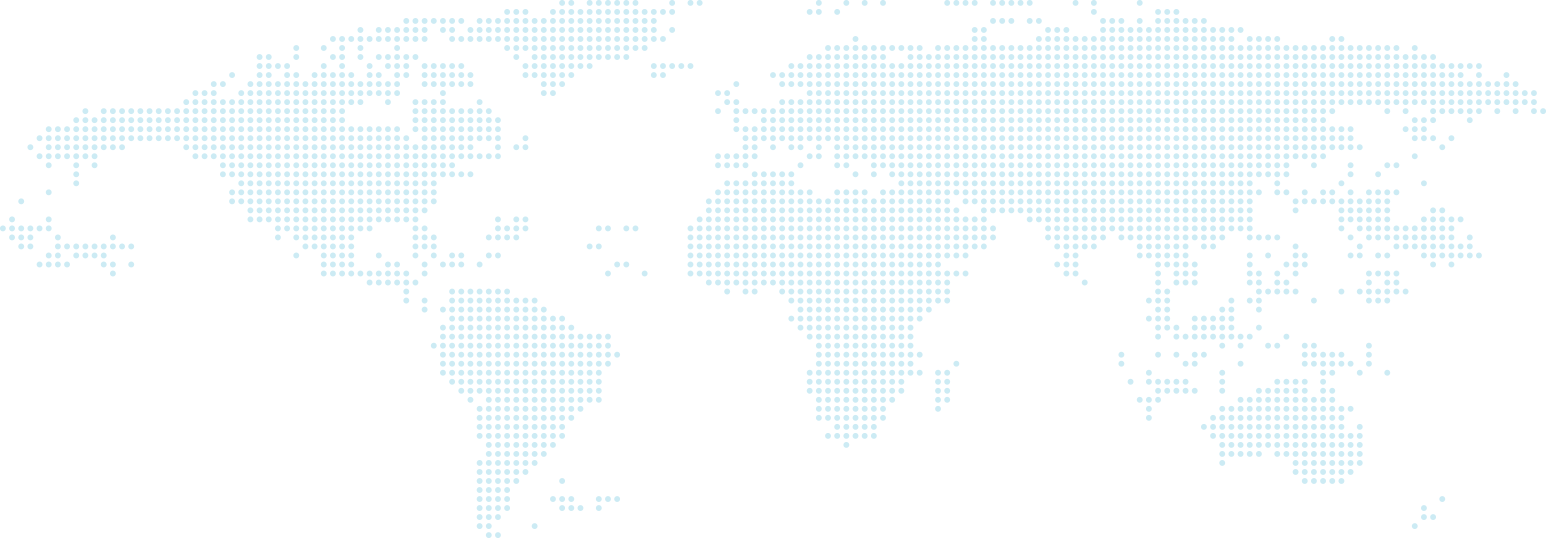
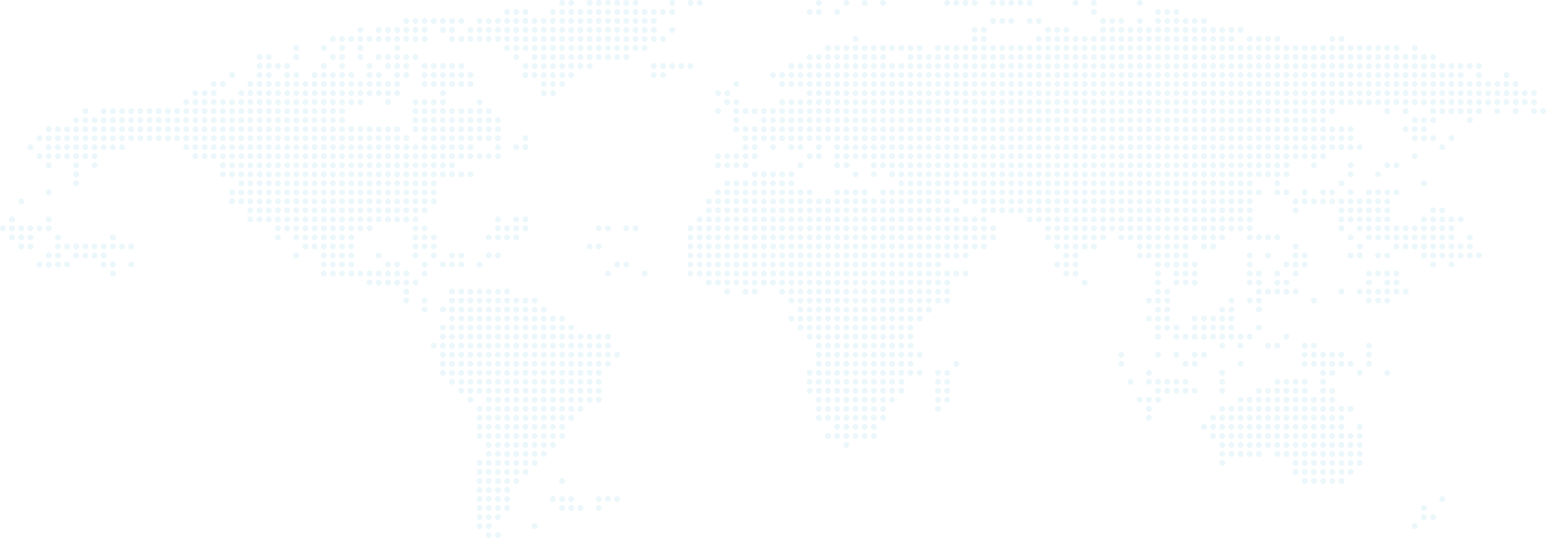
counter de home listo

diff --git a/saaspik/index.html b/saaspik/index.html
@@ -522,14 +522,14 @@
 		<!--=         Count Up        =-->
 		<!--===========================-->
 		<section class="countup">
-			<div class="bg-map" data-bg-image="media/background/map2.png">
+			<div class="bg-map" data-bg-image="media/background/map.png">
 
 			</div>
 			<div class="container">
 				<div class="section-title text-center">
 					<h3 class="sub-title wow pixFadeUp">Fun Facts</h3>
 					<h2 class="title wow pixFadeUp" data-wow-delay="0.2s">
-						We Always try to Understand<br> Users expectation
+						Durante este año 2019
 					</h2>
 				</div>
 				<!-- /.section-title -->
@@ -539,12 +539,13 @@
 						<div class="col-lg-3 col-md-6 col-sm-6">
 							<div class="fun-fact wow pixFadeUp" data-wow-delay="0.3s">
 								<div class="counter">
-									<h4 class="count" data-counter="14">14 </h4>
-									<span>K+</span>
+									<h4 class="count">1.2 </h4>
+									<!-- data-counter="1.2" -->
+									<span>MM+</span>
 								</div>
 								<!-- /.counter -->
 
-								<p>Total Download</p>
+								<p>Liquidaciones generadas</p>
 							</div>
 							<!-- /.fun-fact -->
 						</div>
@@ -553,37 +554,38 @@
 						<div class="col-lg-3 col-md-6 col-sm-6">
 							<div class="fun-fact color-two wow pixFadeUp" data-wow-delay="0.5s">
 								<div class="counter">
-									<h4 class="count" data-counter="13">13 </h4>
-									<span>M+</span>
+									<h4 class="count">1.7</h4>
+									<!-- data-counter="1,7" -->
+									<span>MM+</span>
 								</div>
 								<!-- /.counter -->
-								<p>Total Download</p>
+								<p>De dólares procesados <br> en sueldos </p>
 							</div>
 							<!-- /.fun-fact -->
 						</div>
 						<!-- /.col-lg-3 col-md-6 col-sm-6 -->
 
 						<div class="col-lg-3 col-md-6 col-sm-6">
-							<div class="fun-fact color-three wow pixFadeUp" data-wow-delay="0.7s">
+							<div class="fun-fact wow pixFadeUp" data-wow-delay="0.7s">
 								<div class="counter">
-									<h4 class="count" data-counter="244">244 </h4>
+									<h4 class="count" data-counter="1700">1.700 </h4>
 									<span>+</span>
 								</div>
 								<!-- /.counter -->
-								<p>Total Download</p>
+								<p>Empresas pagan con Talana</p>
 							</div>
 							<!-- /.fun-fact -->
 						</div>
 						<!-- /.col-lg-3 col-md-6 col-sm-6 -->
 
 						<div class="col-lg-3 col-md-6 col-sm-6">
-							<div class="fun-fact color-four wow pixFadeUp" data-wow-delay="0.9s">
+							<div class="fun-fact wow pixFadeUp" data-wow-delay="0.9s">
 								<div class="counter">
-									<h4 class="count" data-counter="53">53 </h4>
-									<span>M+</span>
+									<h4 class="count" data-counter="622000">622.000</h4>
+									<span>+</span>
 								</div>
 								<!-- /.counter -->
-								<p>Total Download</p>
+								<p>Contratos generados con Talana</p>
 							</div>
 							<!-- /.fun-fact -->
 						</div>
